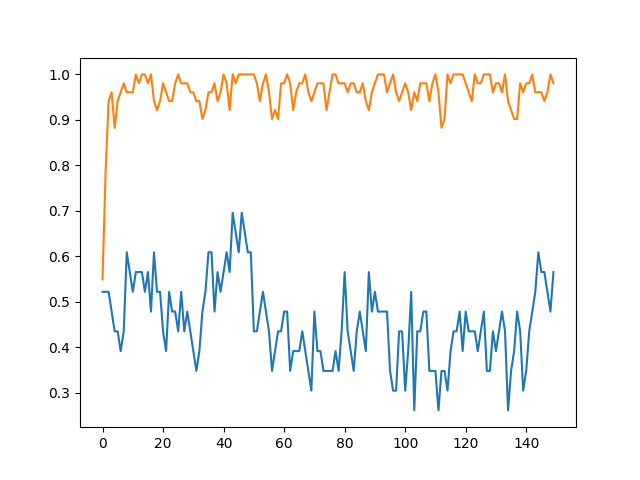
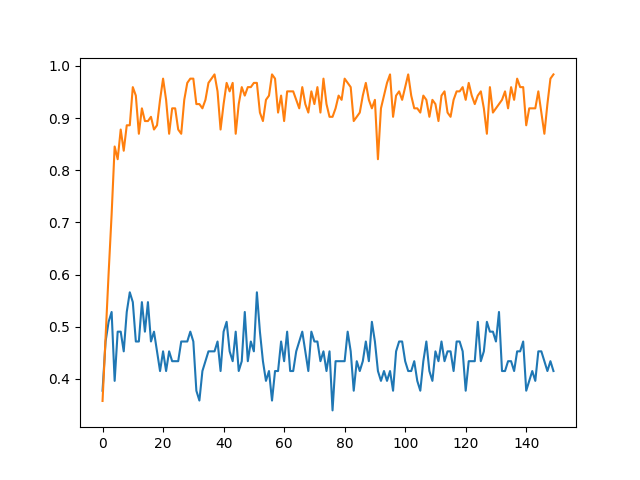
trained model for 4 company with 16-17 data

diff --git a/2fc_keras.py b/2fc_keras.py
@@ -10,7 +10,7 @@ from ioutils import *
 
 model = Sequential()
 
-reg=0.5
+reg=1.0
 dropout=0.5
 model.add(Dense(256, activation='relu', input_dim=300,kernel_regularizer=regularizers.l2(reg)))
 model.add(BatchNormalization())
@@ -18,27 +18,34 @@ model.add(Dropout(dropout))
 model.add(Dense(128, activation='relu',kernel_regularizer=regularizers.l2(reg)))
 model.add(BatchNormalization())
 model.add(Dropout(dropout))
+model.add(Dense(64, activation='relu',kernel_regularizer=regularizers.l2(reg)))
+model.add(BatchNormalization())
+#model.add(Dropout(dropout))
 model.add(Dense(5, activation='softmax'))
 
 num_epochs=150
 
-intervals=[15,30,45,60,90]
-for interval in intervals:
-    filename='datasets/datas_'+str(interval)+'d.json'
-    x_train,y_train=get_training_data_json(filename)
-    x_train, y_train = shuffle_data(x_train,y_train)
-    x_train=np.array(x_train)*1000 # scale up to avoid decimal computation loss
-    y_train=np.array(y_train)
-    y_train = keras.utils.to_categorical(y_train, num_classes=5)
-    
-    model.compile(loss='categorical_crossentropy',
-              optimizer='rmsprop',
-              metrics=['accuracy'])
-    hist=model.fit(x_train, y_train,
-          epochs=num_epochs,
-          batch_size=32,
-          validation_split=0.3)
-    plt.plot(range(num_epochs),hist.history['val_acc'],range(num_epochs),hist.history['acc'])
-    plt.savefig('figs/2fc_training_'+str(interval)+'days')
-    plt.close()
-#score = model.evaluate(x_test, y_test, batch_size=128)
+intervals=[30]
+companies=['kedaxunfei','fuxingyiyao','sanyizhonggong','yonghuichaoshi']
+for company in companies:
+    print('Training: '+company)    
+    for interval in intervals:
+        filename='datasets/datas_'+company+'_'+str(interval)+'d.json'
+        x_train,y_train=get_training_data_json(filename)
+        x_train, y_train = shuffle_data(x_train,y_train)
+        x_train=np.array(x_train)*1000 # scale up to avoid decimal computation loss
+        y_train=np.array(y_train)
+        y_train = keras.utils.to_categorical(y_train, num_classes=5)
+
+        model.compile(loss='categorical_crossentropy',
+                  optimizer='rmsprop',
+                  metrics=['accuracy'])
+        hist=model.fit(x_train, y_train,
+              verbose=1,
+              epochs=num_epochs,
+              batch_size=32,
+              validation_split=0.3)
+        plt.plot(range(num_epochs),hist.history['val_acc'],range(num_epochs),hist.history['acc'])
+        plt.savefig('figs/2fc_training_'+company+'_'+str(interval)+'days')
+        plt.close()
+    #score = model.evaluate(x_test, y_test, batch_size=128)

diff --git a/data_dump_preprocess.py b/data_dump_preprocess.py
@@ -99,7 +99,7 @@ def dump_data(filename,dates,vectors,dates_trade,asrs,profits,interval=30):
 
 
 companies=['kedaxunfei','fuxingyiyao','sanyizhonggong','yonghuichaoshi']
-
+#companies=['kedaxunfei']
 for company in companies:
     print(company)
     dates,vectors,dates_trade,asrs,profits=pre_process_asr(yanbao='rawdata/yanbao_'+company+'_1617.json',\
@@ -108,14 +108,18 @@ for company in companies:
     for interval in intervals:
         filename='datasets/datas_'+company+'_'+str(interval)+'d.json'
         asrs_plt=dump_data(filename,dates,vectors,dates_trade,asrs,profits,interval=interval)
-        """
-        plt.hist(asrs_plt)
+        colors=['red','tan']
+        labels = ['ASR', 'Profit']
+        plt.hist(asrs_plt,normed=1, histtype='bar', color=colors, label=labels)
         plt.xlabel('asr sum over '+str(interval)+' days')
         plt.ylabel('number of data')
-        plt.title('Total number of data:'+str(len(asrs_plt)))
+        plt.title('Total number of data:'+str(len(asrs_plt[0])))
         plt.axis([-0.5, 0.5,0,30])
-        plt.savefig('figs/Distribution_over_'+str(interval)+'days')
+        plt.legend()
+        plt.savefig('figs/Distribution_'+company+'_'+str(interval)+'days')
+        
+        #plt.show()
         plt.close()
-        """
+        
     
     

diff --git a/README.md b/README.md
@@ -36,3 +36,9 @@
 ## data_dump_preprocess.py
 Preprocess, pairup and dump data into json files
 
+# 更新紀錄(1/10)
+1. 雖然ASR和一般收益率有細微差距（在figs中可以看到分佈），但是如果根據幅度劃分為五類的話，兩者的分佈是一樣的
+2. 因為這幾家公司的種類不同，所以沒有共用tfidf的，而是針對每家公司都從頭進行操作（統計高頻詞->訓練模型）
+3. 這次的訓練數據都採用了16，17年的研報，總數量也可以在figs中的分佈圖看到
+4. 訓練結果可以在figs中看到，成果仍然會overfit
+
